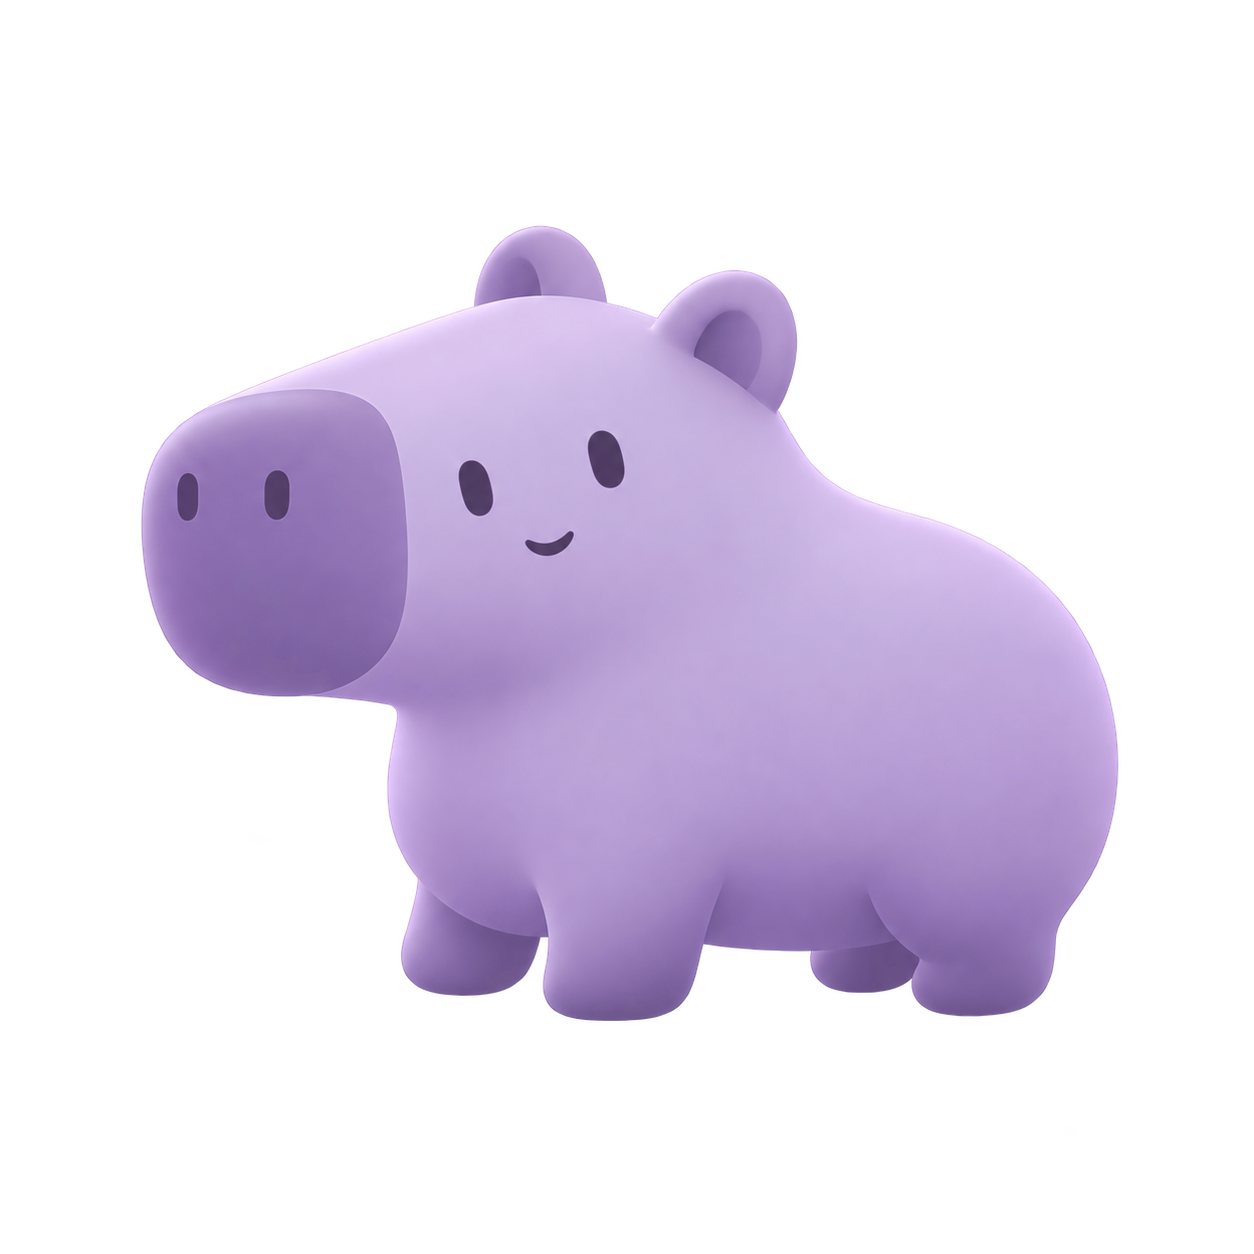
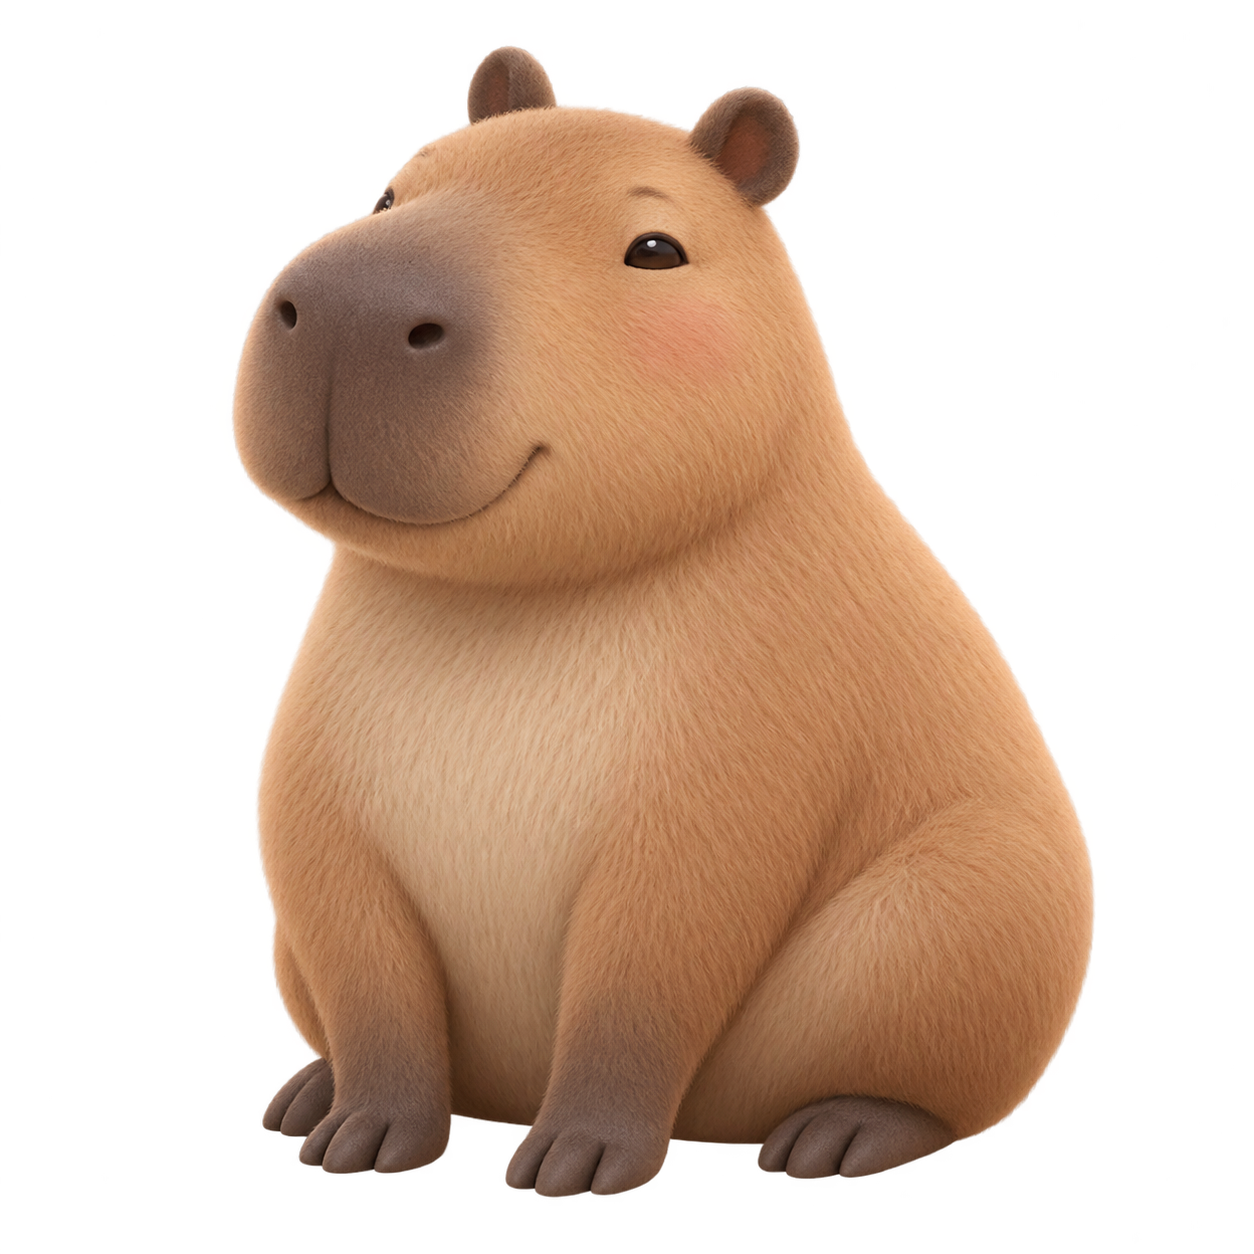
fix: restore original OpenMuse capybara artwork

diff --git a/docs/superpowers/specs/2026-09-23-notch-onboarding-proposal.md b/docs/superpowers/specs/2026-09-23-notch-onboarding-proposal.md
@@ -1,0 +1,33 @@
+# Notch onboarding proposal
+
+Status: proposed; new flow awaiting user approval. Original tan mascot replacement is explicitly requested and independent.
+
+## Observations
+
+The supplied Clicky screenshots demonstrate a small welcome surface, a permission-specific explanation, a system-owned permission prompt and a floating app tile beside Accessibility settings. Clicky's changelog describes a compact Home panel that expands from the notch, supports popping out to a window and offers a replayable welcome tour. These are observed product behaviors, not a claim about Clicky's private implementation.
+
+Sources:
+
+- https://www.heyclicky.com/changelog
+- https://www.electronjs.org/docs/latest/tutorial/native-file-drag-drop
+- https://developer.apple.com/documentation/appkit/nsscreen/auxiliarytopleftarea-uglc
+
+## Proposed behavior
+
+Use OpenMuse's original tan capybara without modifying its face or colors. Preserve the blue/white workspace, illustration layout and alternate Kite choice.
+
+On first launch, show a compact panel beneath the hardware notch: Welcome, Accessibility, optional Screen Recording, Ready. Explain only capabilities the app actually has. There is no microphone or Google sign-in step because neither is implemented in this application. Existing installations get the new tour once; Settings can replay it. Closing the panel does not claim setup or permission completion.
+
+Accessibility offers Open System Settings, a draggable OpenMuse Desktop app tile, and Refresh status. A native outgoing file drag carries the running .app bundle, not an image or a copied executable. macOS controls the subsequent toggle and authentication. A packaged app is required for this tile; development explains that requirement and provides the ordinary permission controls. Keep a visible helper panel available while Settings is foreground. Provide Show app in Finder as a fallback.
+
+Screen Recording explains that screenshots are shared only when attached. Allow skipping it. After opening Settings, refresh actual permission status on focus and while the setup step is visible, with at most one check in flight. Distinguish granted, not granted, pending request and failed check. Never infer approval from opening Settings or dropping a tile. Allow retries and explain restart requirements.
+
+After setup, show a compact notch companion that expands on hover or keyboard activation. It provides Open workspace, Record/Stop, and Setup actions. The existing workspace remains the full agent surface. Settings chooses Notch or Floating placement; floating mode retains the draggable sprite and its remembered position.
+
+Use NSScreen safeAreaInsets/auxiliary top areas to identify a notched display and its usable geometry. Place interactive content below the physical camera housing, never underneath it. Without a notch, use a top-center panel. Reposition on display changes; keep the floating position separately. Expanded content must not cover menu-bar controls, and reduced-motion users get immediate transitions.
+
+## Boundaries and verification
+
+Persist onboarding completion and placement independently of macOS permission grants. Validate all new IPC and select the app bundle path only in the main process. Never accept arbitrary renderer-supplied file paths for native drag.
+
+Verify preference migration, display geometry (including negative display origins and no-notch fallback), missing/corrupt preferences and permission failure/retry transitions. Check both native app launch modes, hover/keyboard expansion, replay, display removal, actual outgoing .app drag and restart persistence. Granting Accessibility remains a user action during verification.

diff --git a/docs/verification.md b/docs/verification.md
@@ -38,3 +38,10 @@ The current packaged app shows macOS Accessibility and Screen Recording as not g
 Cloud-side completed-thread ingestion, scheduled learning analysis, and applying a newly published cloud skill have not been independently confirmed in the Intelligence dashboard. Successful delivery of an empty skill catalog does not establish those outcomes.
 
 The original build was unsigned; the current packaging pipeline ad-hoc signs and verifies the sealed bundle identifier. It is not notarized. Native desktop actions remain open-app and visual pointer with approval; arbitrary cross-app clicking/typing and voice are not implemented. Codex workspace-write limits writes, not all reads outside the working folder. Conversation sessions persist in Kite's private agent directory, while the UI currently keeps its displayed conversation for the running app session.
+
+## Original mascot correction
+
[1 lines of base64/hex data omitted]
+- Formatting, lint, typecheck, all 26 tests and full signed packaging pass.
+- Relaunch is awaiting the user's macOS Documents-folder permission response. TCC logs identify a new ad-hoc code hash and a pending Documents request; the main process is blocked in file open before windows are created. The updated launch has therefore not yet been visually verified.
+- Notch onboarding and the native .app drag tile are researched and proposed in `superpowers/specs/2026-09-23-notch-onboarding-proposal.md`, not implemented pending design approval.

diff --git a/README.md b/README.md
@@ -2,7 +2,7 @@
 
 An OpenMuse-inspired macOS desktop companion, developed in [jerelvelarde/heycapybara](https://github.com/jerelvelarde/heycapybara). The original [heykite](https://github.com/jerelvelarde/heykite) repository is preserved as the archive. This is a standalone contribution candidate, not an official OpenMuse release.
 
-The default capybara companion uses an original soft lilac illustration. Choose **Settings → Desktop companion → Kite** for the original sprite. Both choices share drag/click behavior, and your choice is remembered between launches. The interface keeps the original friendly layout with colors from [OpenMuse](https://github.com/CopilotKit/openmuse/blob/main/apps/mobile/src/ui.tsx).
+The default capybara companion uses OpenMuse’s original warm tan artwork, including its original face and proportions. Choose **Settings → Desktop companion → Kite** for the original sprite. Both choices share drag/click behavior, and your choice is remembered between launches. The interface keeps the original friendly layout with colors from [OpenMuse](https://github.com/CopilotKit/openmuse/blob/main/apps/mobile/src/ui.tsx).
 
 A macOS desktop companion powered by the official Codex SDK, with AG-UI and a record-to-skill workflow. Electron hosts the floating companion and workspace; a Swift helper observes activity across native applications during explicitly started recordings.
 

diff --git a/public/ASSETS.md b/public/ASSETS.md
@@ -1,7 +1,5 @@
 # Desktop companion artwork
 
-`capybara.png` is original artwork generated on September 23, 2026 using OpenAI image generation for this project. It was created to match the original Kite companion's simple, rounded, lilac illustration style. The reference was the user's screenshot of the Kite workspace. The image is a transparent PNG bundled locally with the app.
+`capybara.png` is the original warm tan capybara from [CopilotKit/openmuse](https://github.com/CopilotKit/openmuse/blob/main/apps/mobile/assets/capybara.png), reused unchanged. It replaces the violet generated approximation, including its incorrect facial features.
 
-The capybara has a rounded rectangular snout, tiny ears and eyes, a friendly smile and short feet. It is intentionally a separate illustration from OpenMuse's detailed tan mascot.
-
-UI colors follow CopilotKit/openmuse's shared palette. See OPENMUSE-LICENSE.txt for the upstream MIT notice.
+Upstream documents this as original artwork generated for OpenMuse on September 16, 2026 and distributed under its MIT license. See `OPENMUSE-LICENSE.txt` for the required copyright notice and license. UI colors also follow OpenMuse's shared palette.
